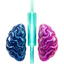
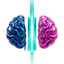
feat: centred candle mark and navy pink wordmark

diff --git a/src/app/globals.css b/src/app/globals.css
@@ -205,7 +205,8 @@ html[data-theme="light"] .brand-gradient-text {
   height: 620px;
   left: -180px;
   top: -220px;
-  background: radial-gradient(circle, #81ffd9 0%, transparent 65%);
+  background: radial-gradient(circle, #123a6b 0%, transparent 65%);
+  opacity: 0.5;
 }
 .hero-blob-b {
   width: 560px;
@@ -225,11 +226,11 @@ html[data-theme="light"] .hero-blob-b {
 .hero-stage {
   position: relative;
   border-radius: 18px;
-  border: 1px solid rgba(129, 255, 217, 0.16);
+  border: 1px solid rgba(255, 77, 157, 0.18);
   background:
-    radial-gradient(70% 90% at 50% 42%, rgba(129, 255, 217, 0.16), transparent 70%),
-    radial-gradient(50% 60% at 82% 16%, rgba(255, 77, 157, 0.16), transparent 70%),
-    linear-gradient(180deg, #0e1a26 0%, #060a0f 100%);
+    radial-gradient(70% 90% at 50% 42%, rgba(18, 58, 107, 0.6), transparent 70%),
+    radial-gradient(50% 60% at 82% 16%, rgba(255, 77, 157, 0.2), transparent 70%),
+    linear-gradient(180deg, #0b1624 0%, #05080c 100%);
   box-shadow:
     0 40px 90px -40px rgba(0, 0, 0, 0.8),
     inset 0 1px 0 rgba(255, 255, 255, 0.12);

diff --git a/src/components/Logo.tsx b/src/components/Logo.tsx
@@ -8,19 +8,20 @@ export function LogoLockup({
   labelClassName?: string;
 }) {
   return (
-    <span className="flex items-center gap-2.5">
+    <span
+      className={`inline-flex items-center gap-2 rounded-xl bg-white py-1 pl-1 pr-2.5 shadow-[0_10px_30px_-20px_rgba(0,0,0,0.65)] ${labelClassName}`}
+    >
       <img
         src="/brand/mark-64.png"
         width={size}
         height={size}
         alt=""
-        className="rounded-[9px]"
+        className="rounded-lg"
         style={{ width: size, height: size }}
       />
-      <span
-        className={`font-display text-[16px] font-bold tracking-[-0.01em] ${labelClassName}`}
-      >
-        Chart<span className="text-accent">Corex</span>
+      <span className="font-display text-[15px] font-bold tracking-[-0.01em]">
+        <span className="text-[#123A6B]">Chart</span>
+        <span className="text-[#FF4D9D]">Corex</span>
       </span>
     </span>
   );

diff --git a/src/app/page.tsx b/src/app/page.tsx
@@ -78,7 +78,7 @@ export default function Home() {
             <h1 className="mt-7 text-[42px] font-[650] leading-[1.02] tracking-[-0.03em] sm:text-[64px]">
               Your chart is the input.
               <br />
-              <span className="text-accent">A trade plan is the </span>
+              <span className="text-ink">A trade plan is the </span>
               <span className="text-pink">output.</span>
             </h1>
 

diff --git a/README.md b/README.md
@@ -21,11 +21,11 @@ The prompt layer in `src/lib/prompts/` is an institutional rule set written for 
 
 ## Brand
 
-The mark is a 3D render of two brain hemispheres, navy on the left and pink on the right, with a teal candle standing taller than the brain between them. It is used for the header, the favicon and the app icon.
+The mark is a 3D render of two brain hemispheres, navy on the left and pink on the right, with a teal candle between them. The candle is centred on the brain, with equal overhang above and below, and stands taller than the brain. The wordmark sets Chart in navy and Corex in pink. It is used for the header, the favicon and the app icon.
 
 The landing hero is a real screen recording of the app: image upload, scan, report. `scripts/record-demo.mjs` records it with Playwright and the result is encoded into `public/media/demo.mp4`.
 
-Palette: navy `#070B10` and `#0D141C` surfaces, teal `#81FFD9` for primary buttons with black text, and pink `#FF4D9D` as the signal accent. Green and red are reserved exclusively for price direction. Buttons are rectangular with a 12px radius. UI type is Comfortaa, with the heavier rounded system display stack for the wordmark, headings, menu items and buttons. Dark is the default theme, with light available from the header toggle.
+Palette: pink and navy lead. Navy `#070B10` and `#0D141C` surfaces, pink `#FF4D9D` as the brand and signal accent, and teal `#81FFD9` reserved for primary buttons, with black text, plus small interface accents. Green and red are reserved exclusively for price direction. Buttons are rectangular with a 12px radius. UI type is Comfortaa, with the heavier rounded system display stack for the wordmark, headings, menu items and buttons. Dark is the default theme, with light available from the header toggle.
 
 Every result shows the Meta response IDs for the segmentation and the reasoning calls, so API usage is verifiable in the product, not only in the code.
 
